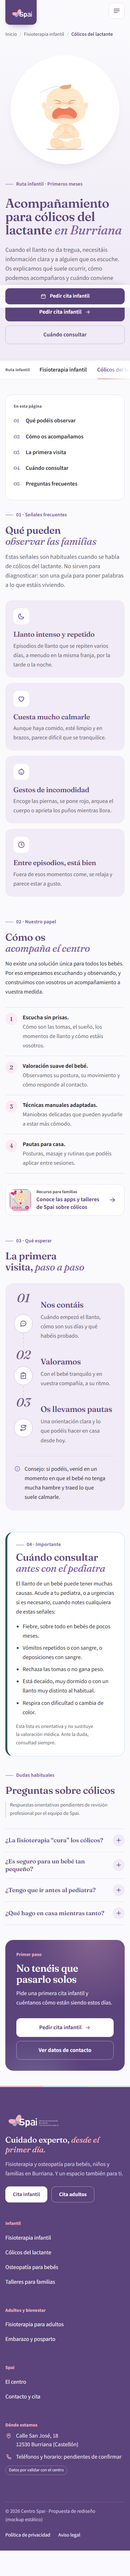
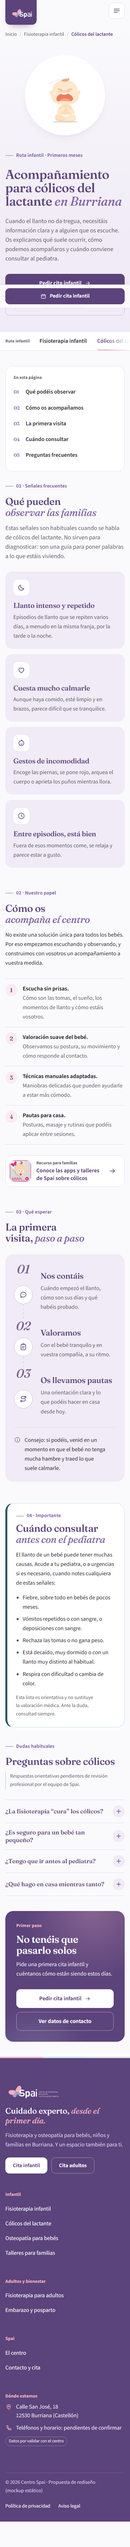
fix: size illustration medallions consistently across hero and editorial blocks

Changed region(s): [[0.0308, 0.0312, 0.9846, 0.9999], [0.8, 0.4062, 0.8923, 0.4374], [0.8923, 0.7187, 0.9231, 0.7499]]

diff --git a/src/styles/global.css b/src/styles/global.css
@@ -546,7 +546,8 @@ strong {
 /* Medallón para ilustraciones sobre fondo blanco: tratamiento único */
 .illus {
   display: block;
-  width: min(100%, var(--illus-size, 22rem));
+  width: var(--illus-size, 22rem);
+  max-width: 100%;
   height: auto;
   aspect-ratio: 1;
   margin-inline: auto;
